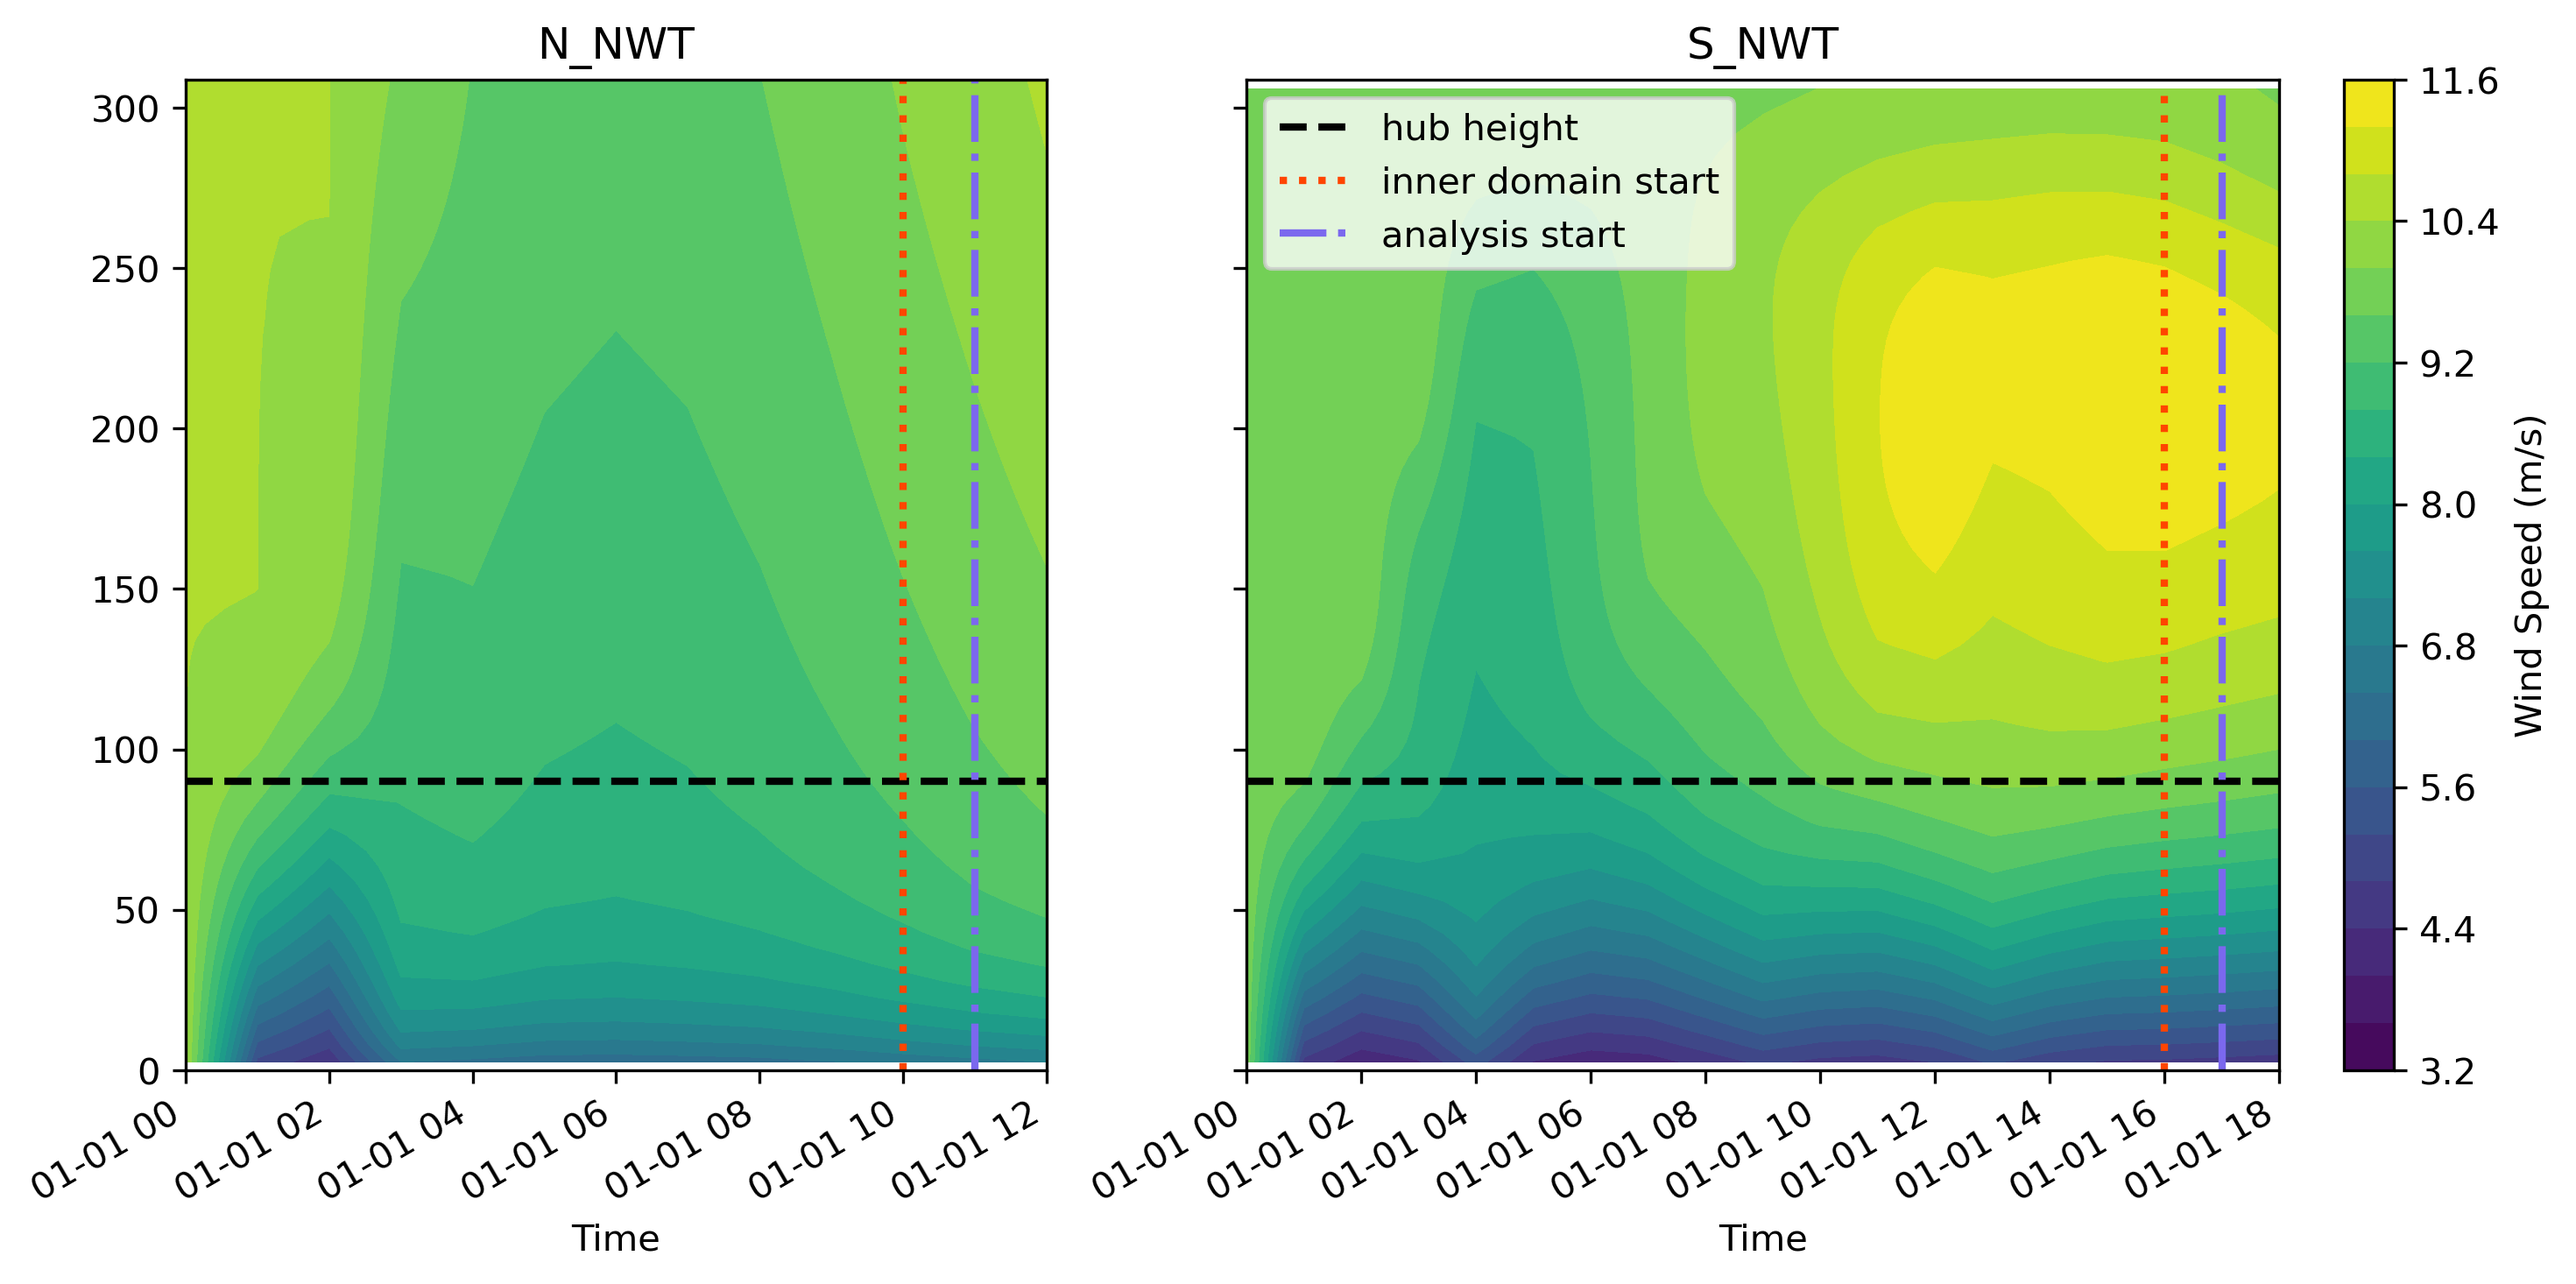
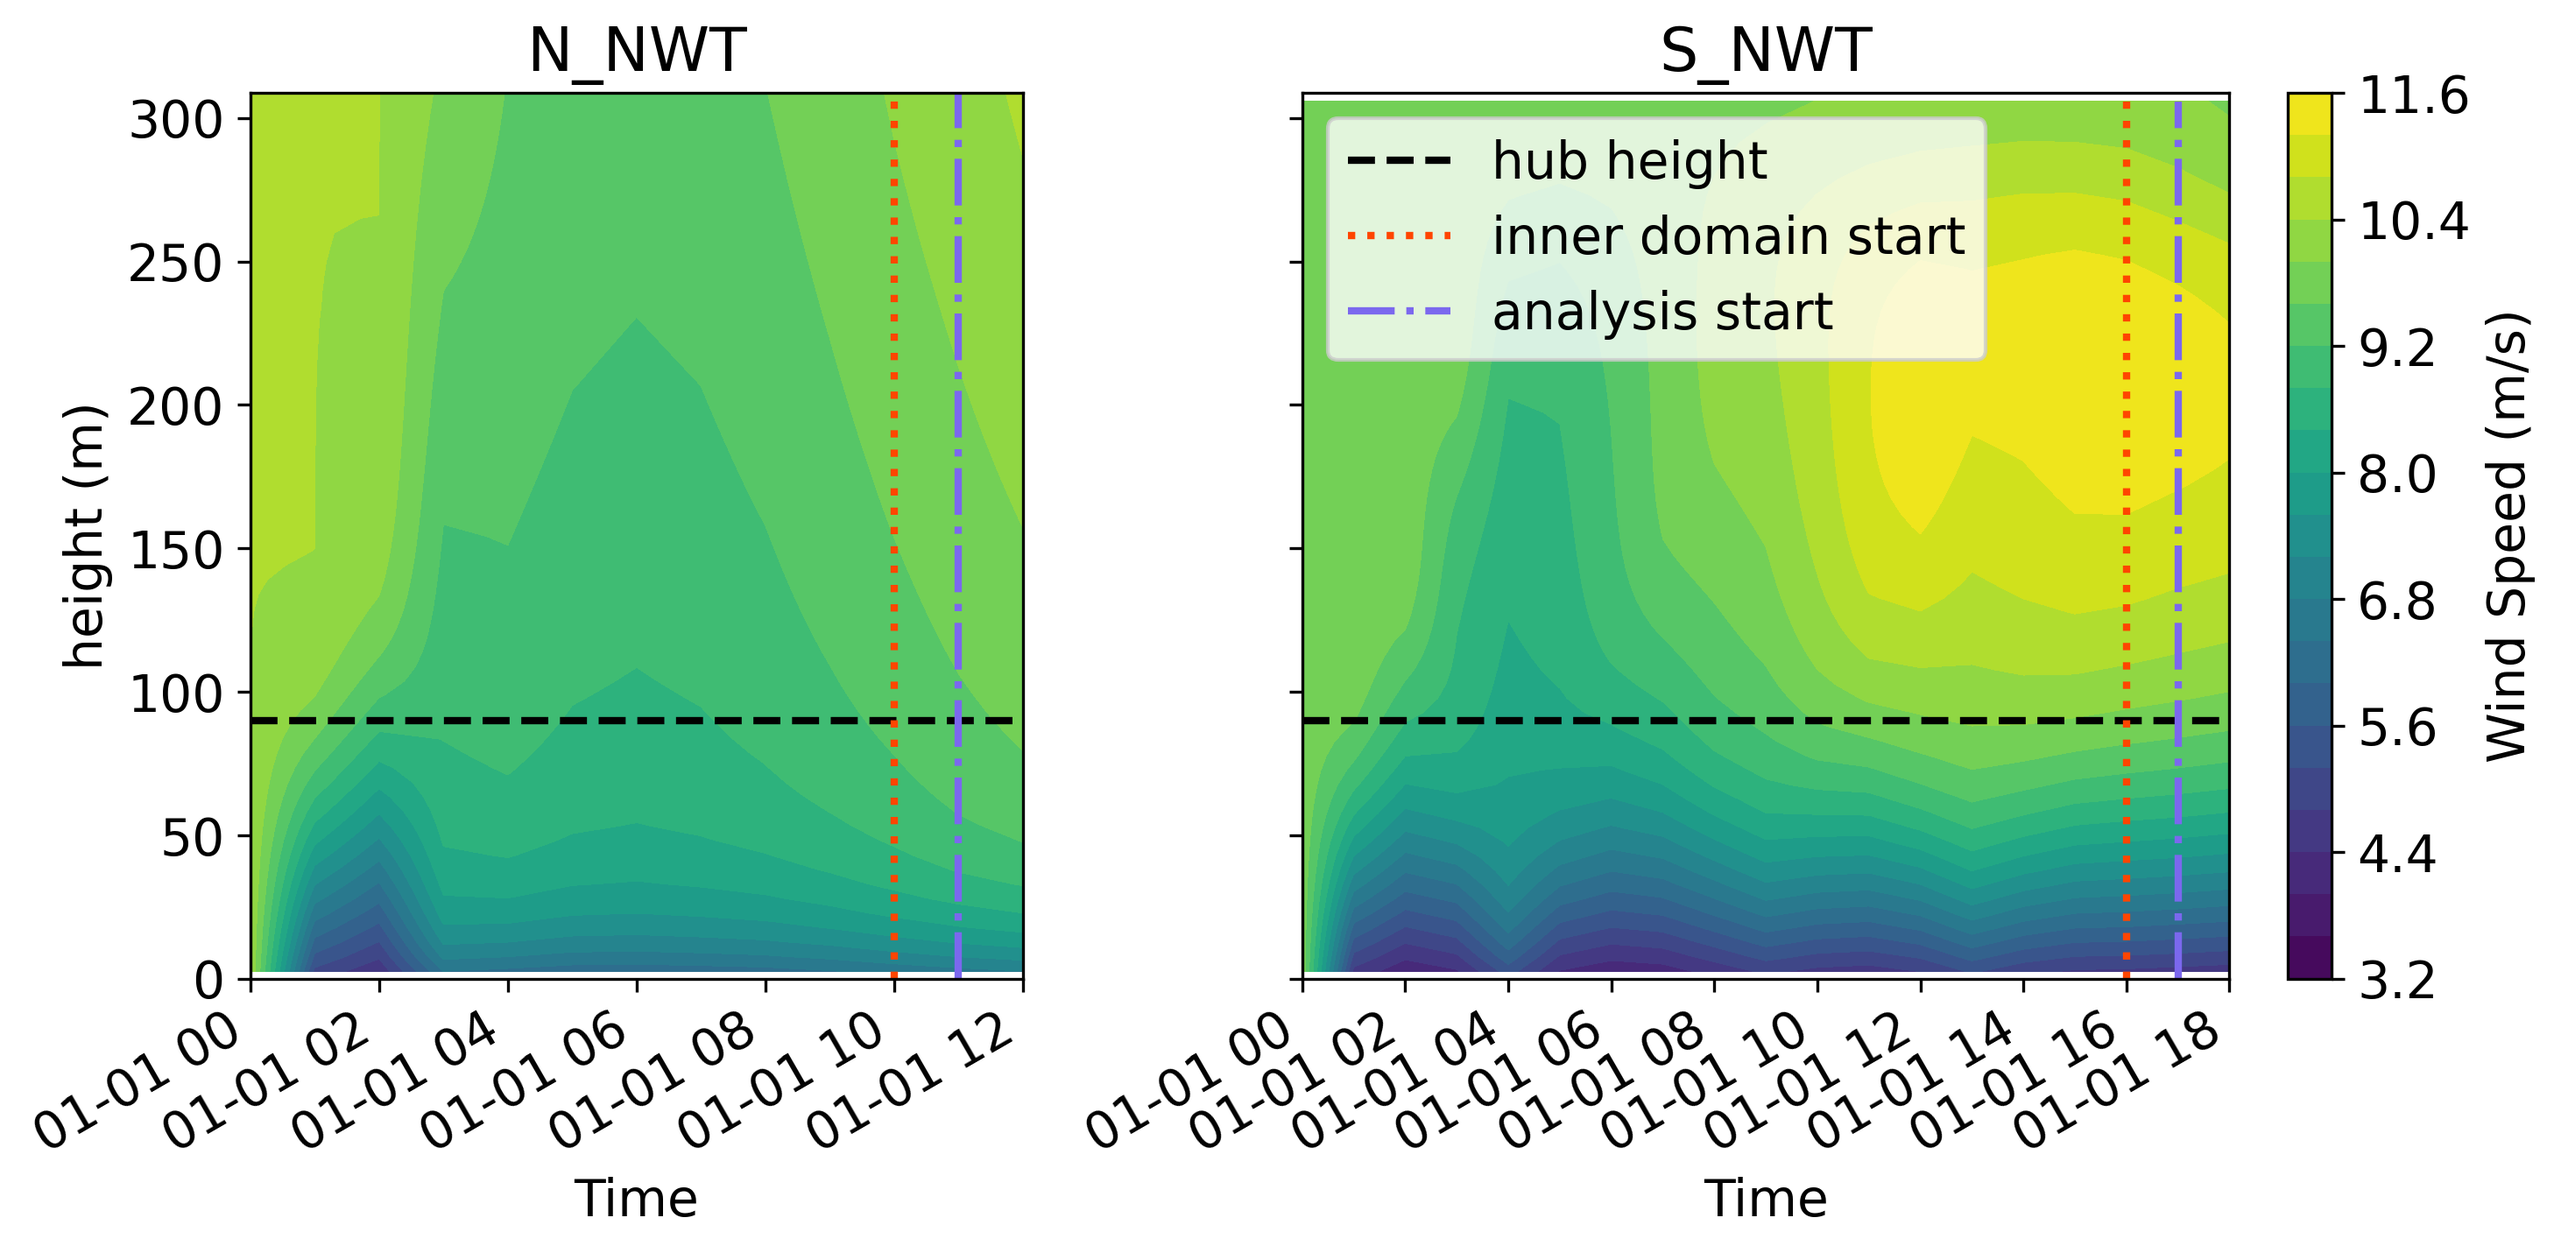
increase font size

diff --git a/time_evolution_both.py b/time_evolution_both.py
@@ -1,6 +1,9 @@
+import matplotlib
 import pandas as pd
 import matplotlib.pyplot as plt
 import numpy as np
+
+plt.rcParams['font.size'] = 14
 
 neutral = pd.read_csv('time_evolution_neutral.csv', index_col=0, header=0).T
 stable = pd.read_csv('time_evolution_stable.csv', index_col=0, header=0).T
@@ -30,6 +33,7 @@ for i in range(2):
 plt.colorbar(cf, ax=ax, label='Wind Speed (m/s)')
 ax.legend(loc='upper left')
 plt.ylim(bottom=0)
+axes[0].set_ylabel('height (m)')
 
 plt.tight_layout()
 output_path = 'time_evolution.png'
